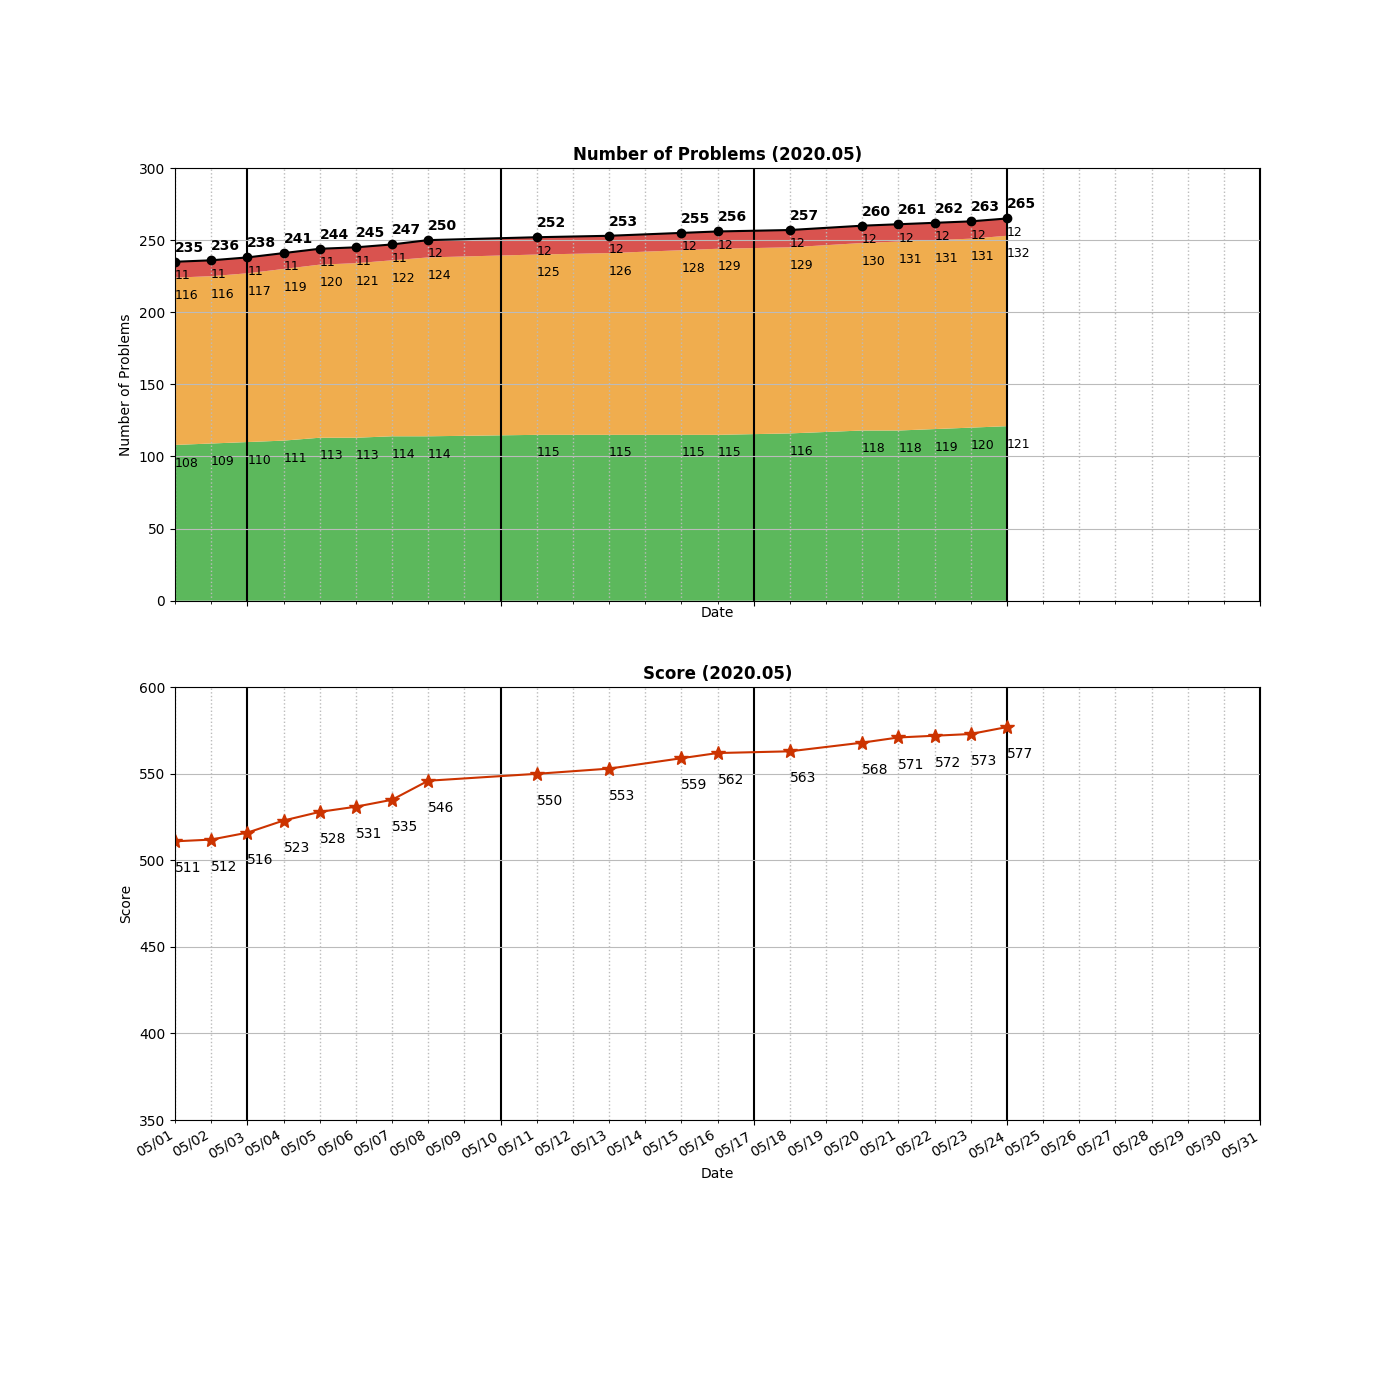
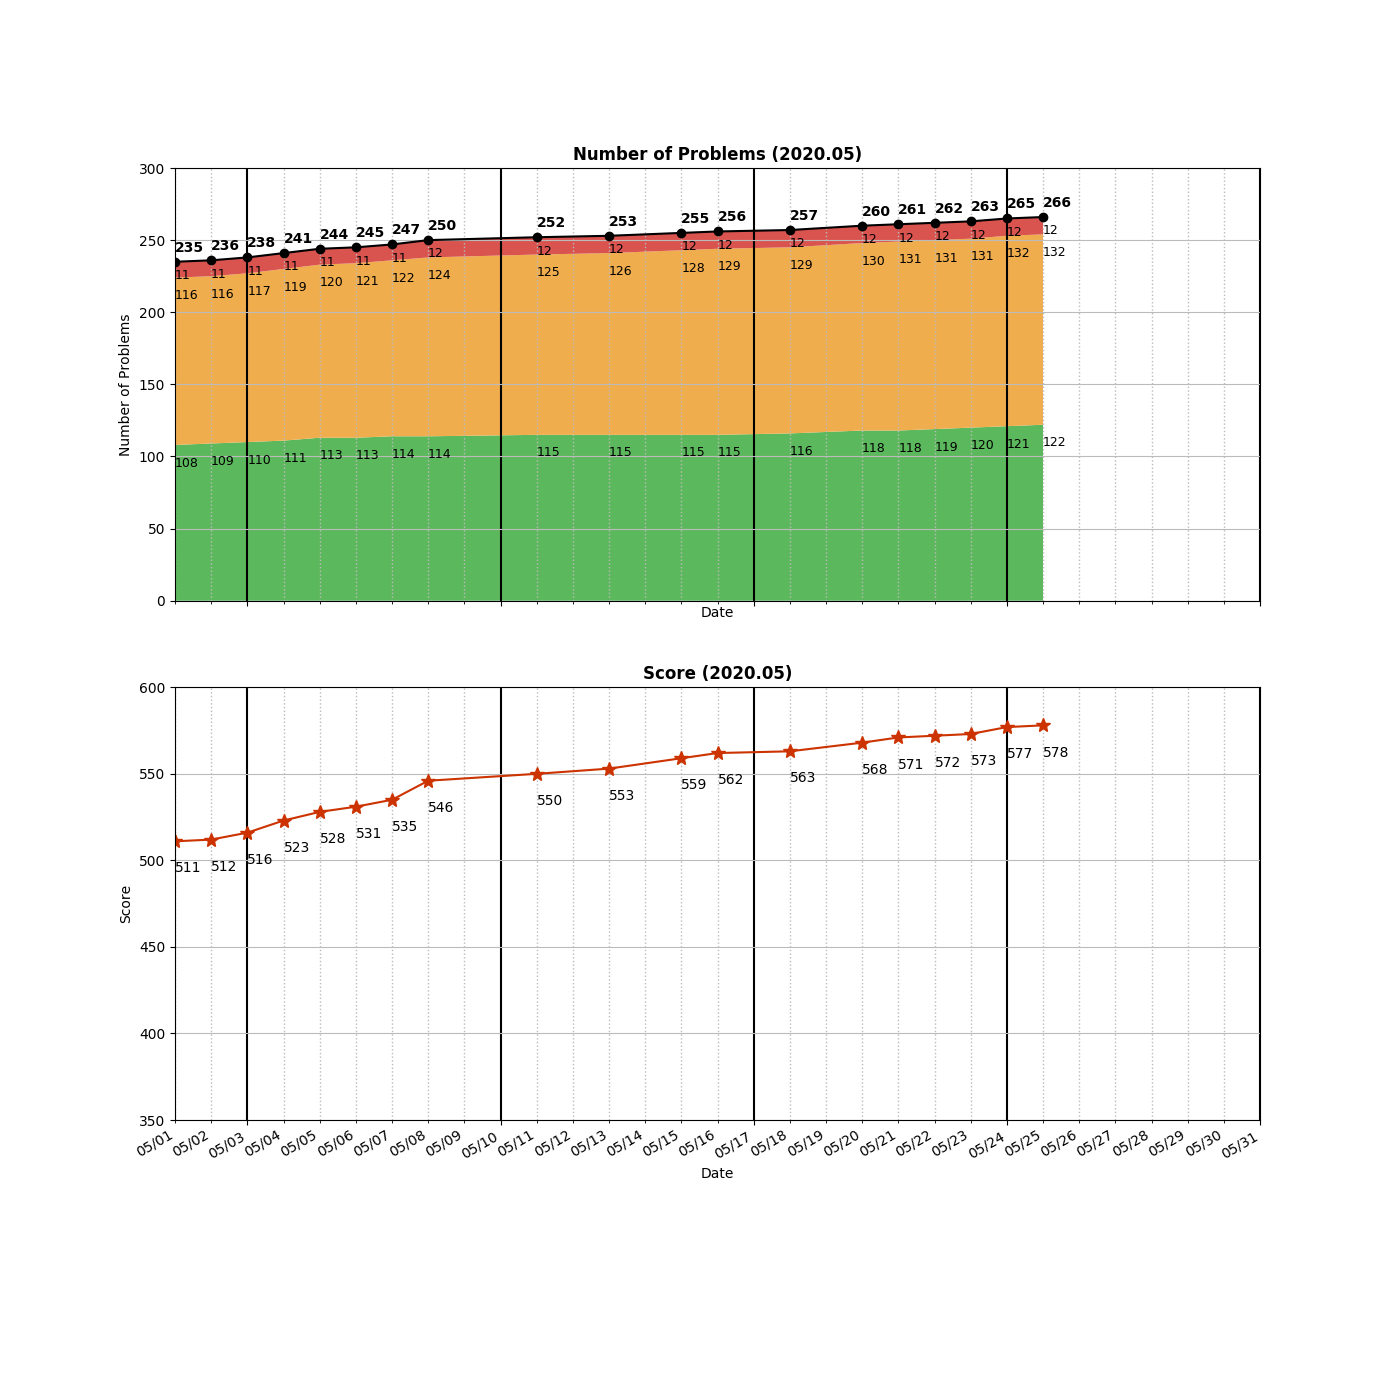
Added _0067_AddBinary.py

Changed region(s): [[0.7064, 0.1229, 0.7679, 0.43]]

diff --git a/algo/string/_0067_AddBinary.py b/algo/string/_0067_AddBinary.py
@@ -1,0 +1,35 @@
+class Solution:
+    def addBinary(self, a: str, b: str) -> str:
+        
+        a = a[::-1]
+        b = b[::-1]
+        
+        # a > b
+        if len(a) < len(b):
+            a, b = b, a
+        
+        ans = []
+        carry = 0
+        for i in range(len(a)):
+            inta, intb, cur = 0, 0, 0 
+            if i >= len(b):
+                inta, intb = int(a[i]), 0
+            else:
+                inta, intb = int(a[i]), int(b[i])
+                
+            total = inta + intb + carry
+            
+            if total == 0:
+                cur, carry = 0, 0
+            elif total == 1:
+                cur, carry = 1, 0 
+            elif total == 2:
+                cur, carry = 0, 1
+            else:
+                cur, carry = 1, 1
+    
+            ans.append(cur)
+        if carry == 1:
+            ans.append(carry)
+        ans = ans[::-1]
+        return ''.join([str(x) for x in ans])

diff --git a/README.md b/README.md
@@ -220,6 +220,7 @@ algo
 │   ├── _0003_LongestSubstringWithoutRepeatingCharacters.py
 │   ├── _0014_LongestCommonPrefix.py
 │   ├── _0038_CountAndSay.py
+│   ├── _0067_AddBinary.py
 │   ├── _0171_ExcelSheetColumnNumber.py
 │   ├── _0290_WordPattern.py
 │   ├── _0299_BullsAndCows.py
@@ -287,7 +288,7 @@ algo
     ├── _0127_WordLadder.py
     └── wordladder.py
 
-23 directories, 263 files
+23 directories, 264 files
 
 =====================================
 ============= Local Repo ============
@@ -338,6 +339,7 @@ _0061_RotateList.py
 _0062_UniquePaths.py
 _0063_UniquePaths2.py
 _0064_MinimumPathSum.py
+_0067_AddBinary.py
 _0069_Sqrt.py
 _0070_ClimbingStairs.py
 _0073_SetMatrixZeroes.py
@@ -554,7 +556,7 @@ _1391_CheckIfThereIsAValidPathInAGrid.py
 _1427_PerformStringShifts.py
 _305_NumberOfIslands2.py
 =====================================
-Num of Python Practice:  261
+Num of Python Practice:  262
 
 
 =====================================
@@ -606,6 +608,7 @@ Num of Python Practice:  261
  0062 Unique Paths
  0063 Unique Paths II
  0064 Minimum Path Sum
+ 0067 Add Binary
  0069 Sqrt(x)
  0070 Climbing Stairs
  0073 Set Matrix Zeroes
@@ -826,11 +829,11 @@ Num of Python Practice:  261
  1426 Counting Elements
  1427 Perform String Shifts
 =====================================
-Solved / Total (Easy)  :  121 /  408
+Solved / Total (Easy)  :  122 /  408
 Solved / Total (Medium):  132 /  745
 Solved / Total (Hard)  :   12 /  305
-Solved / Total (All)   :  265 / 1458
-Total Score            :  577
+Solved / Total (All)   :  266 / 1458
+Total Score            :  578
 =====================================
 
 ```
